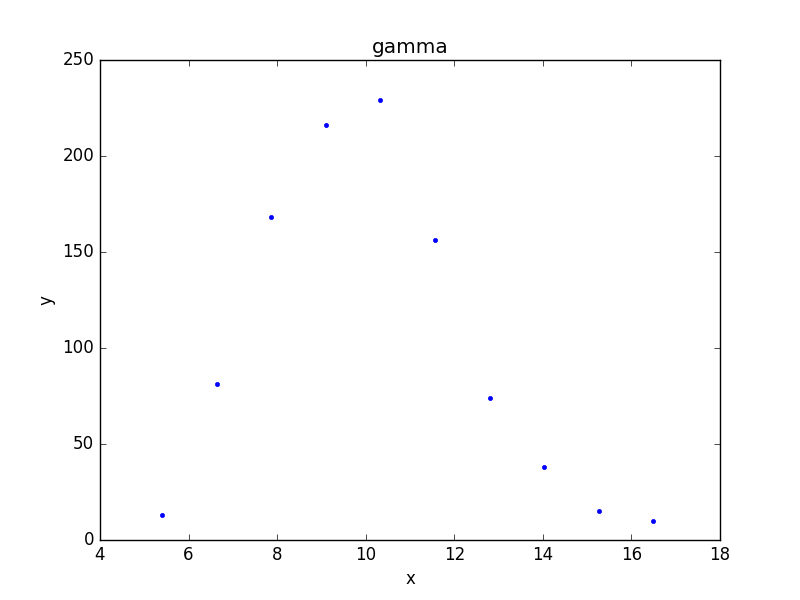
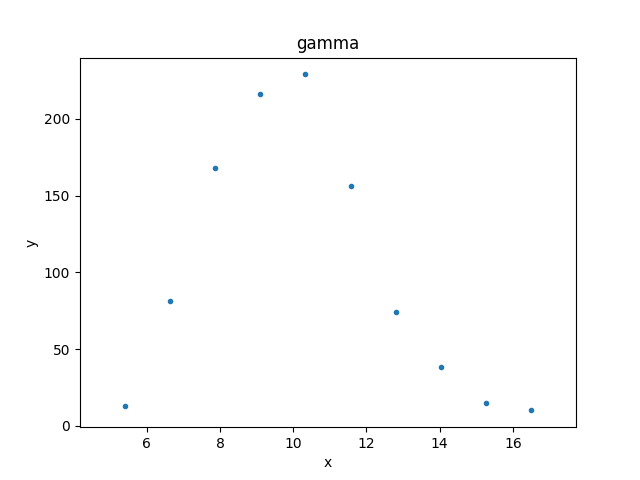
RTD: Minor improvements to data section
The main change is that the heading levels have been "bumped up"
so that the sections - like "Names" and "The independent axis" -
are now visible from the sidebar on the RTD site.

There have also been minor tweaks to the content, including:

 - adding plots for the raw data
 - using the histogram plot class for Data1DInt
 - _examples/data/index.py allows us to re-create the output

diff --git a/docs/_examples/data/index.py b/docs/_examples/data/index.py
@@ -1,0 +1,93 @@
+# for data/index.rst
+
+import numpy as np
+import matplotlib.pyplot as plt
+from sherpa.stats import LeastSq
+from sherpa.optmethods import LevMar
+from sherpa import data
+
+def report(name):
+    print("# print({})".format(name))
+    print(eval(name))
+    print("----------------------------------------")
+
+
+def dump(name):
+    print("# dump")
+    print("{}".format(name))
+    print(repr(eval(name)))
+    print("----------------------------------------")
+
+
+def savefig(name):
+    plt.savefig(name)
+    print("# Created: {}".format(name))
+
+
+np.random.seed(0)
+x = np.arange(20, 40, 0.5)
+y = x**2 + np.random.normal(0, 10, size=x.size)
+d1 = data.Data1D('test', x, y)
+report("d1")
+
+plt.plot(d1.x, d1.y, 'o')
+savefig("data1d.png")
+
+
+z = np.random.gamma(20, scale=0.5, size=1000)
+(y, edges) = np.histogram(z)
+d2 = data.Data1DInt('gamma', edges[:-1], edges[1:], y)
+report("d2")
+
+plt.clf()
+plt.bar(d2.xlo, d2.y, d2.xhi - d2.xlo, align='edge')
+savefig("data1dint.png")
+
+d1.ignore(21.2, 22.8)
+dump("d1.x[np.invert(d1.mask)]")
+
+
+from sherpa.models import Polynom1D
+from sherpa.fit import Fit
+mdl = Polynom1D()
+mdl.c2.thaw()
+fit = Fit(d1, mdl, stat=LeastSq(), method=LevMar())
+res1 = fit.fit()
+
+d1.notice()
+res2 = fit.fit()
+
+report('"Degrees of freedom: {} vs {}".format(res1.dof, res2.dof)')
+
+
+from sherpa.plot import DataHistogramPlot
+pdata = DataHistogramPlot()
+pdata.prepare(d2)
+pdata.plot()
+
+savefig('data_int_to_plot.png')
+
+pdata.plot(linestyle='solid', marker='')
+savefig('data_int_line_to_plot.png')
+
+from sherpa.plot import DataPlot
+pdata = DataPlot()
+d1.ignore(25, 30)
+d1.notice(26, 27)
+pdata.prepare(d1)
+pdata.plot()
+
+savefig('data_to_plot.png')
+
+d1.notice()
+
+d1.notice(22, 25)
+y1 = d1.eval_model(mdl)
+y2 = d1.eval_model_to_fit(mdl)
+x2 = d1.x[d1.mask]
+plt.plot(d1.x, d1.y, 'ko', label='Data')
+plt.plot(d1.x, y1, '--', label='Model (all points)')
+plt.plot(x2, y2, linewidth=2, label='Model (filtered)')
+plt.legend(loc=2)
+
+savefig('data_eval_model.png')

diff --git a/docs/data/index.rst b/docs/data/index.rst
@@ -9,9 +9,6 @@ necessary metadata. Although the design of Sherpa supports
 multiple-dimensional data sets, the current classes only
 support one- and two-dimensional data sets.
 
-Overview
-========
-
 The following modules are assumed to have been imported::
 
     >>> import numpy as np
@@ -21,7 +18,7 @@ The following modules are assumed to have been imported::
     >>> from sherpa import data
 
 Names
------
+=====
 
 The first argument to any of the Data classes is the name
 of the data set. This is used for display purposes only,
@@ -32,7 +29,7 @@ can be changed at any time.
 .. _independent-axis:
 
 The independent axis
---------------------
+====================
 
 The independent axis - or axes - of a data set define the
 grid over which the model is to be evaluated. It is referred
@@ -47,14 +44,14 @@ representation used by Sherpa is often a flattened - i.e.
 one-dimensional - version.
 
 The dependent axis
-------------------
+==================
 
 This refers to the data being fit, and is referred to as ``y``.
 
 .. _data_unbinned:
-   
+
 Unbinned data
-^^^^^^^^^^^^^
+-------------
 
 Unbinned data sets - defined by classes which do not end in
 the name ``Int`` - represent point values; that is, the the data
@@ -73,11 +70,14 @@ Examples of unbinned data classes are
     y         = Float64[40]
     staterror = None
     syserror  = None
+    >>> plt.plot(d.x, d.y, 'o')
+
+.. image:: ../_static/data/data1d.png
 
 .. _data_binned:
-   
+
 Binned data
-^^^^^^^^^^^
+-----------
 
 Binned data sets represent values that are defined over a range,
 such as a histogram.
@@ -102,10 +102,13 @@ size compares to the scale over which the model changes.
     y         = Int64[10]
     staterror = None
     syserror  = None
-    >>> plt.bar(d2.xlo, d2.y, d2.xhi - d2.xlo);
+    >>> plt.clf()
+    >>> plt.bar(d2.xlo, d2.y, d2.xhi - d2.xlo, align='edge')
+
+.. image:: ../_static/data/data1dint.png
 
 Errors
-------
+======
 
 There is support for both statistical and systematic
 errors by either using the ``staterror`` and ``syserror``
@@ -116,7 +119,7 @@ parameters when creating the data object, or by changing the
 .. _data_filter:
 
 Filtering data
---------------
+==============
 
 Sherpa supports filtering data sets; that is, temporarily removing
 parts of the data (perhaps because there are problems, or to help
@@ -134,7 +137,7 @@ hides those values where the independent axis values are between
 
     >>> d1.ignore(21.2, 22.8)
     >>> d1.x[np.invert(d1.mask)]
-    array([ 21.5,  22. ,  22.5])
+    array([21.5, 22. , 22.5])
 
 After this, a fit to the data will ignore these values, as shown
 below, where the number of degrees of freedom of the first fit,
@@ -157,7 +160,7 @@ no arguments were given)::
     Degrees of freedom: 35 vs 38
 
 .. todo::
-   
+
    It's a bit confusing since not always clear where a given
    attribute or method is defined. There's also get_filter/get_filter_expr
    to deal with. Also filter/apply_filter.
@@ -165,7 +168,7 @@ no arguments were given)::
 .. _data_visualize:
 
 Visualizing a data set
-----------------------
+======================
 
 The data objects contain several methods which can be used to
 visualize the data, but do not provide any direct plotting
@@ -177,8 +180,8 @@ preferred approach is to use the classes defined in the
 :py:mod:`sherpa.plot` module, which are described in the
 :doc:`visualization section <../plots/index>`:
 
-    >>> from sherpa.plot import DataPlot
-    >>> pdata = DataPlot()
+    >>> from sherpa.plot import DataHistogramPlot
+    >>> pdata = DataHistogramPlot()
     >>> pdata.prepare(d2)
     >>> pdata.plot()
 
@@ -186,13 +189,25 @@ preferred approach is to use the classes defined in the
 
 Although the data represented by ``d2`` is
 a histogram, the values are displayed at the center of the bin.
-   
+Plot preferences can be changed in the `plot` call:
+
+    >>> pdata.plot(linestyle='solid', marker='')
+
+.. image:: ../_static/data/data_int_line_to_plot.png
+
+.. note::
+
+   The supported options depend on the plot backend (although
+   at present only :term:`matplotlib` is supported).
+
 The plot objects automatically handle any
 :ref:`filters <data_filter>`
 applied to the data, as shown below.
 
 ::
 
+    >>> from sherpa.plot import DataPlot
+    >>> pdata = DataPlot()
     >>> d1.ignore(25, 30)
     >>> d1.notice(26, 27)
     >>> pdata.prepare(d1)
@@ -211,7 +226,7 @@ applied to the data, as shown below.
    :py:meth:`~sherpa.plot.DataPlot.prepare` is made.
 
 ::
-   
+
     >>> d1.notice()
 
 At this point, a call to ``pdata.plot()`` would re-create the previous
@@ -219,7 +234,7 @@ plot, even though the filter has been removed from the underlying
 data object.
 
 Evaluating a model
-------------------
+==================
 
 The :py:meth:`~sherpa.data.Data.eval_model` and
 :py:meth:`~sherpa.data.Data.eval_model_to_fit`
